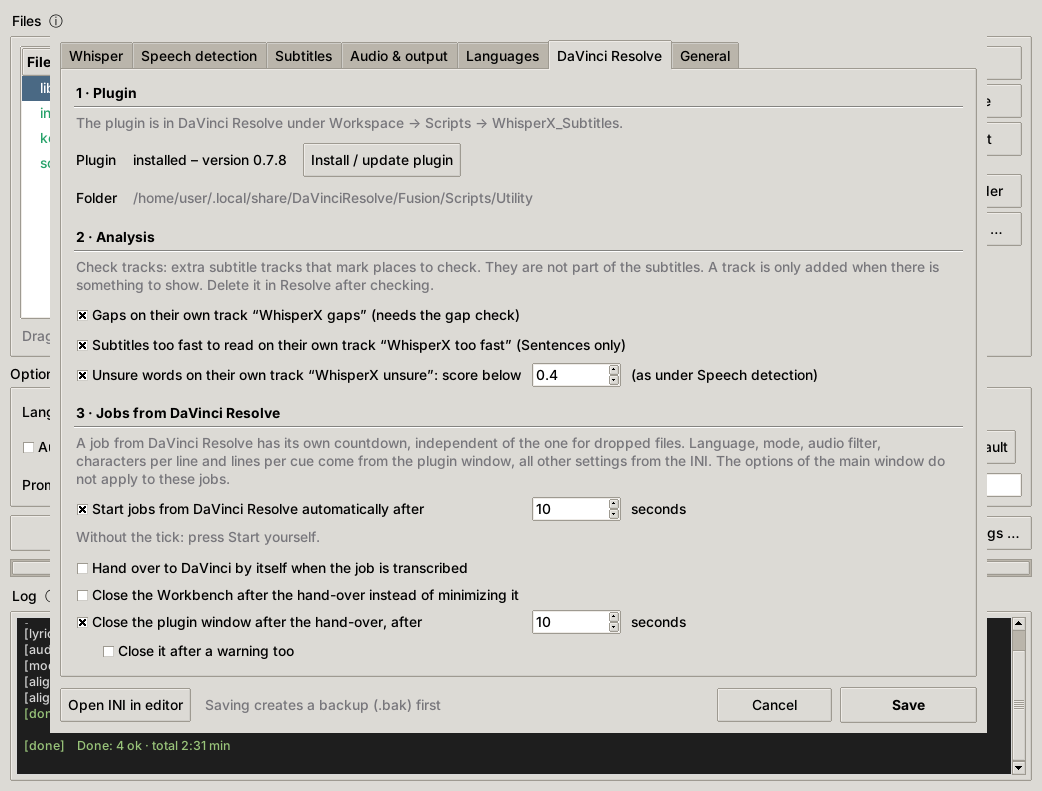
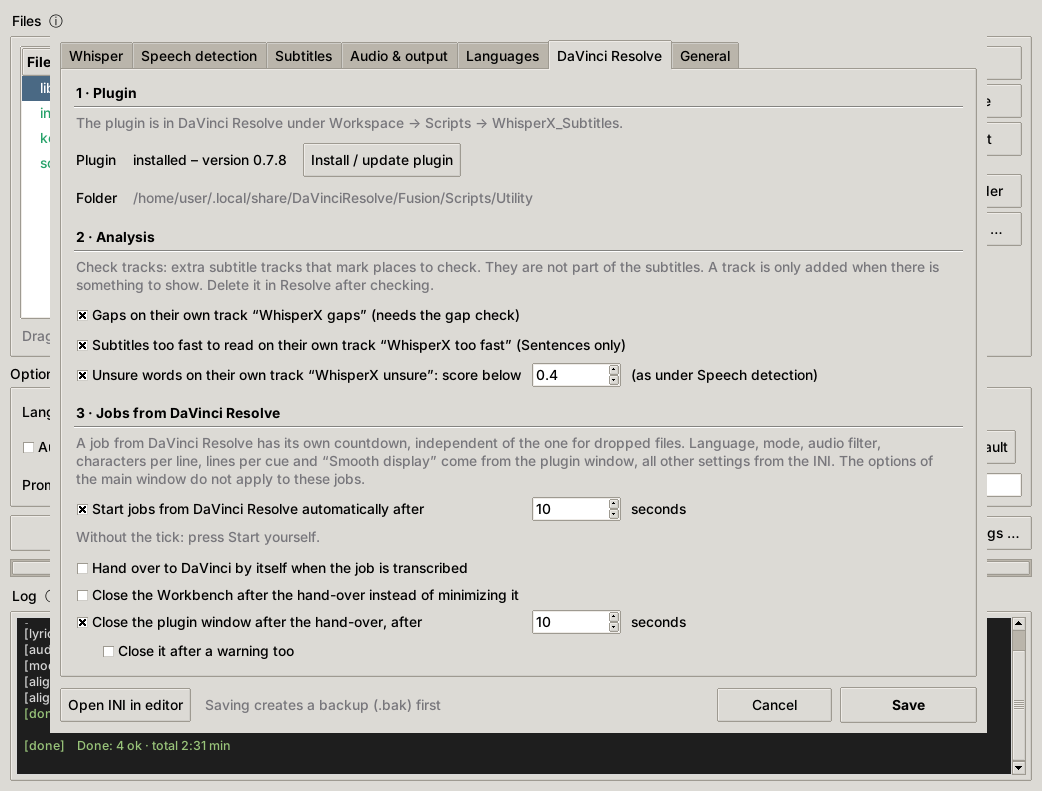
Smooth display chosen in the plugin window for a DaVinci job
The plugin window has a row "Smooth display" with Workbench default,
on and off, like language and mode. The plugin remembers the choice and
writes it into job.txt (smooth = "", 1, 0); the Workbench uses it for
the job instead of [Layout] smooth (JobOptions.smooth, display_cues)
and names it in the log line of the job, with "(INI)" for the INI
value. LAYOUT goes to "4", so the window starts once with the new size.
display_cues keeps pause_hold below pause like Config.__init__, because
the INI may have smooth = 0 with a longer hold.

settings-resolve.png taken again: the info of section 3 names the new
choice.

Comment limits raised: wt_core.py +2 (JobOptions.smooth, the rule of
Config.__init__ in display_cues), wt_resolve.py +1 (the new field like
the others), test_pauses.py +1 and test_resolve_plugin.py +1 (expected
values).

Claude-Session: https://claude.ai/code/session_01QDKquLZPA3UBpqMiHDnjSe

Changed region(s): [[0.0921, 0.5765, 0.9213, 0.6372]]

diff --git a/tests/test_resolve_plugin.py b/tests/test_resolve_plugin.py
@@ -662,6 +662,38 @@ def test_language_and_mode_chosen_in_the_plugin_go_into_the_job(tmp_path):
     assert (seen["job"].language, seen["job"].mode, seen["job"].use_filter) == ("tr", "word", False)
 
 
+def test_smooth_display_chosen_in_the_plugin_goes_into_the_job_and_stays(tmp_path):
+    h = Harness(tmp_path)
+    seen = {}
+
+    def steps(h):
+        seen["start"] = list(h.mock["items"].Smooth.entries.values())
+        h.click("Transcribe")
+        h.tick(2)
+        (job_dir,) = h.job_dirs()
+        seen["default"] = wr.find_job(job_dir / "audio.wav").smooth
+        h.click("Cancel")
+        h.mock.choose("Smooth", 2)                     # off
+        seen["saved"] = wr.read_kv(h.last / "plugin.txt")
+        h.click("Transcribe")
+        h.tick(2)
+        (job_dir,) = h.job_dirs()
+        seen["off"] = wr.find_job(job_dir / "audio.wav").smooth
+        h.click("Cancel")
+
+    h.run(steps, timelines=[timeline()])
+    assert seen["start"] == [h.T("opt_workbench"), h.T("opt_on"), h.T("opt_off")]
+    assert seen["default"] is None and seen["off"] is False and seen["saved"]["smooth"] == "0"
+
+    h2 = Harness(tmp_path)
+
+    def second(h):
+        seen["index"] = h.mock["items"].Smooth.CurrentIndex
+
+    h2.run(second, timelines=[timeline()])
+    assert seen["index"] == 2
+
+
 def test_audio_filter_chosen_in_the_plugin_goes_into_the_job_and_stays(tmp_path):
     h = Harness(tmp_path)
     seen = {}
@@ -774,14 +806,15 @@ def test_unusable_saved_geometry_is_ignored(tmp_path):
     g.WX_TEST = True
     m = h.lua.execute(h.code)
     for bad in ("", "1,2,3", "0,0,100,100", "-5000,0,700,500", "0,0,99999,500"):
-        assert m.saved_geometry(h.lua.table_from({"geometry": bad, "layout": "3"})) is None
-    assert list(m.saved_geometry(h.lua.table_from({"geometry": "10,20,600,360", "layout": "3"})).values()) == \
-        [10, 20, 600, 360]
+        assert m.saved_geometry(h.lua.table_from({"geometry": bad, "layout": "4"})) is None
+    assert list(m.saved_geometry(h.lua.table_from({"geometry": "10,20,600,392", "layout": "4"})).values()) == \
+        [10, 20, 600, 392]
     # Resolve 21.2 reported 505 wide although the minimum is 520 - restore it anyway
-    assert list(m.saved_geometry(h.lua.table_from({"geometry": "260,180,505,360", "layout": "3"})).values()) == \
-        [260, 180, 505, 360]
-    # saved before the row with characters and lines: too low for it
-    assert m.saved_geometry(h.lua.table_from({"geometry": "10,20,600,330", "layout": "2"})) is None
+    assert list(m.saved_geometry(h.lua.table_from({"geometry": "260,180,505,392", "layout": "4"})).values()) == \
+        [260, 180, 505, 392]
+    # saved before the rows with characters and lines (2) and with "Smooth display" (3): too low
+    for layout in ("2", "3"):
+        assert m.saved_geometry(h.lua.table_from({"geometry": "10,20,600,360", "layout": layout})) is None
     # saved by an older plugin (no layout key): its start size was too big - start with the new one
     assert m.saved_geometry(h.lua.table_from({"geometry": "10,20,640,460"})) is None
 

diff --git a/wt_resolve.py b/wt_resolve.py
@@ -136,6 +136,7 @@ class ResolveJob:
     use_filter:  bool | None = None   # audio filter chosen in the plugin (None = from the INI)
     chars:       int = 0         # characters per line chosen in the plugin (0 = from the INI)
     lines:       int = 0         # lines per subtitle chosen in the plugin (0 = from the INI)
+    smooth:      bool | None = None   # "Smooth display" chosen in the plugin (None = from the INI)
 
     @classmethod
     def from_values(cls, folder, v: dict) -> "ResolveJob":
@@ -154,6 +155,7 @@ class ResolveJob:
                 return 0
         start = frame("start_frame")
         flt = v.get("filter", "").strip().lower()
+        smooth = v.get("smooth", "").strip().lower()
         return cls(folder=Path(folder), audio=v["audio"], job_id=v.get("job", ""),
                    timeline=v.get("timeline", ""), timeline_id=v.get("timeline_id", ""),
                    project=v.get("project", ""), fps=parse_fps(v.get("fps", "")), fps_text=v.get("fps", ""),
@@ -163,7 +165,8 @@ class ResolveJob:
                    whole=v.get("range", "all") != "inout", language=v.get("language", "").lower(),
                    mode=v.get("mode", "").lower(),
                    use_filter=None if flt == "" else flt in ("1", "true", "on", "yes"),
-                   chars=whole("chars"), lines=whole("lines"))
+                   chars=whole("chars"), lines=whole("lines"),
+                   smooth=None if smooth == "" else smooth in ("1", "true", "on", "yes"))
 
     def values(self) -> dict:
         """The keys of job.txt, in the order the plugin writes them."""
@@ -173,7 +176,8 @@ class ResolveJob:
                 "start_tc": self.start_tc, "range": "all" if self.whole else "inout", "in_frame": self.in_frame,
                 "out_frame": self.out_frame, "end_frame": self.end_frame, "language": self.language,
                 "mode": self.mode, "filter": "" if self.use_filter is None else "1" if self.use_filter else "0",
-                "chars": self.chars or "", "lines": self.lines or ""}
+                "chars": self.chars or "", "lines": self.lines or "",
+                "smooth": "" if self.smooth is None else "1" if self.smooth else "0"}
 
     @property
     def audio_path(self) -> Path:

diff --git a/whisper_tool.py b/whisper_tool.py
@@ -1124,8 +1124,8 @@ class App(BaseTk):
 
     def _resolve_options(self, job, cfg: core.Config | None = None) -> core.JobOptions:
         """
-        Options of a DaVinci Resolve job: language, mode, audio filter, characters and lines as chosen in the
-        plugin, all other settings from the INI. The options of the main window do not apply to these jobs.
+        Options of a DaVinci Resolve job: language, mode, audio filter, characters, lines and smooth display as
+        chosen in the plugin, all other settings from the INI. The options of the main window do not apply.
         """
         o = core.JobOptions.from_config(cfg or self.cfg)
         def within(n, limits, default):
@@ -1135,7 +1135,8 @@ class App(BaseTk):
                        mode=job.mode if job.mode in core.MODES else o.mode,
                        use_filter=o.use_filter if job.use_filter is None else job.use_filter,
                        max_chars=within(job.chars, core.CHARS_RANGE, o.max_chars),
-                       max_lines=within(job.lines, core.LINES_RANGE, o.max_lines))
+                       max_lines=within(job.lines, core.LINES_RANGE, o.max_lines),
+                       smooth=job.smooth)
 
     def _log_resolve_options(self, job):
         o = self._resolve_options(job)
@@ -1147,7 +1148,9 @@ class App(BaseTk):
             filter=T("resolve.filter_on" if o.use_filter else "resolve.filter_off")
             + ("" if job.use_filter is not None else ini),
             layout=T("resolve.layout", chars=o.max_chars, lines=o.max_lines)
-            + ("" if (job.chars, job.lines) == (o.max_chars, o.max_lines) else ini)) + "\n")
+            + ("" if (job.chars, job.lines) == (o.max_chars, o.max_lines) else ini),
+            smooth=T("resolve.smooth_on" if (self.cfg.smooth if o.smooth is None else o.smooth) else "resolve.smooth_off")
+            + ("" if job.smooth is not None else ini)) + "\n")
         prompt = {"ini": "resolve.prompt_ini", "custom": "resolve.prompt_custom"}.get(o.prompt_mode,
                                                                                      "resolve.prompt_none")
         self._append_log(i18n.line("info", "resolve.log_job_ini", prompt=T(prompt)) + "\n")

diff --git a/wt_core.py b/wt_core.py
@@ -655,11 +655,12 @@ def smooth_cues(cues: list, pause: float, hold: float, duration: float | None = 
     return out
 
 
-def display_cues(cues: list, mode: str, cfg, duration: float | None = None) -> list:
+def display_cues(cues: list, mode: str, cfg, duration: float | None = None, smooth: bool | None = None) -> list:
     """Display rule for speech (sentences, word by word, raw) if "smooth" is on – lyrics keep their own."""
-    if mode == "lyrics" or not cfg.smooth:
+    if mode == "lyrics" or not (cfg.smooth if smooth is None else smooth):
         return cues
-    return smooth_cues(cues, cfg.pause, cfg.pause_hold, duration)
+    hold = cfg.pause_hold if cfg.pause_hold < cfg.pause else round(cfg.pause / 2, 2)   # rule of Config.__init__
+    return smooth_cues(cues, cfg.pause, hold, duration)
 
 
 def fast_cues(cues: list, max_cps: float = READING_CPS) -> list[tuple[float, float, float]]:
@@ -909,6 +910,7 @@ class JobOptions:
     keep_json:     bool  = False
     line_hold:     float = 0.0
     live_lines:    bool  = True        # print recognized lines during transcription
+    smooth:        bool | None = None  # None = [Layout] smooth
 
     @classmethod
     def from_config(cls, cfg: Config) -> "JobOptions":
@@ -1275,7 +1277,7 @@ class Engine:
             info["score_list"] = self._report_score(result, src)            # also for DaVinci Resolve
             info["unsure"] = len(info["score_list"])
 
-        cues = display_cues(cues, mode, cfg, duration)      # pause rule – lyrics keep their own
+        cues = display_cues(cues, mode, cfg, duration, opts.smooth)    # pause rule – lyrics keep their own
         if mode == "sentence":
             info["fast"] = self._report_fast(cues)
         write_srt(out, cues, cfg.encoding)

diff --git a/tests/test_pauses.py b/tests/test_pauses.py
@@ -198,3 +198,14 @@ def test_pipeline_raw_screen_is_empty_during_the_pause(tmp_path):
     assert len(times) == 2                                                          # split at the 4 s pause
     assert times[0][1] == pytest.approx(words[4]["end"] + 1.0)                      # "das." + 1 s hold
     assert times[1][0] == pytest.approx(words[5]["start"])                          # "Danach" exactly on time
+
+
+def test_smooth_display_chosen_for_the_job_wins_over_the_ini(tmp_path):
+    ini = tmp_path / "whisper_tool.ini"
+    ini.write_text("[Layout]\nsmooth = 0\npause = 2\npause_hold = 5\n", encoding="utf-8")
+    cfg = core.Config(ini)
+    cues = [(0.0, 1.0, ["a"]), (1.5, 2.0, ["b"]), (8.0, 9.0, ["c"])]
+    assert core.display_cues(cues, "sentence", cfg) == cues
+    on = core.display_cues(cues, "sentence", cfg, smooth=True)
+    assert on[0][1] == 1.5 and on[1][1] == 3.0          # held up to the next one; real pause: hold of pause / 2
+    assert core.display_cues(cues, "lyrics", cfg, smooth=True) == cues

diff --git a/tests/test_resolve.py b/tests/test_resolve.py
@@ -502,6 +502,15 @@ def test_resolve_job_options_come_from_the_plugin_and_the_ini(tmp_path):
     assert (default.language, default.mode, default.use_filter) == ("de", "sentence", False)
 
 
+def test_smooth_display_comes_from_the_plugin(tmp_path):
+    wt = pytest.importorskip("whisper_tool")
+    app = type("App", (), {"cfg": core.Config(ROOT / "whisper_tool.example.ini")})()
+    for chosen in (True, False, None):
+        job = make_job(tmp_path / str(chosen), smooth=chosen)
+        assert wr.find_job(tmp_path / str(chosen) / "audio.wav").smooth is chosen
+        assert wt.App._resolve_options(app, job).smooth is chosen
+
+
 def test_characters_and_lines_come_from_the_plugin(tmp_path):
     wt = pytest.importorskip("whisper_tool")
     ini = tmp_path / "whisper_tool.ini"

diff --git a/README.de.md b/README.de.md
@@ -333,9 +333,9 @@ Nach einem Update der Workbench, nach dem Verschieben ihres Ordners und nach ein
 
 ### Ablauf
 
-1. Die Timeline in Resolve öffnen. In und Out setzen, wenn nur ein Teil transkribiert werden soll, sonst gilt die ganze Timeline. Das Plugin starten, bei Bedarf **Sprache** und **Modus** für diesen Job wählen („Vorgabe der Workbench“ nimmt die Vorgabe aus der INI), den **Audiofilter** ein- oder ausschalten, für den Modus *Satzweise* **Zeichen/Zeile** und **Zeilen/Block** einstellen (bei den anderen Modi ausgegraut) und **Transkribieren** drücken. Das Plugin-Fenster merkt sich Position, Größe und diese Auswahlen. Die beiden Zahlen starten mit den Werten aus der INI.
+1. Die Timeline in Resolve öffnen. In und Out setzen, wenn nur ein Teil transkribiert werden soll, sonst gilt die ganze Timeline. Das Plugin starten, bei Bedarf **Sprache** und **Modus** für diesen Job wählen („Vorgabe der Workbench“ nimmt die Vorgabe aus der INI), den **Audiofilter** ein- oder ausschalten, für den Modus *Satzweise* **Zeichen/Zeile** und **Zeilen/Block** einstellen (bei den anderen Modi ausgegraut), **Flüssig anzeigen** wählen (Vorgabe der Workbench, an oder aus) und **Transkribieren** drücken. Das Plugin-Fenster merkt sich Position, Größe und diese Auswahlen. Die beiden Zahlen starten mit den Werten aus der INI.
 2. Das Plugin rendert die Hauptmischung der Timeline als WAV nach `resolve_temp\<Job>\` der Workbench. Danach ist der Render-Job gelöscht, und Seite, Deliver-Einstellungen sowie In/Out-Marken sind wie vorher – auch nach einem Fehler oder *Abbrechen*. Dann startet es die Workbench mit der WAV; eine schon geöffnete Workbench übernimmt die Datei, ihre Modelle bleiben geladen.
-3. In der Workbench steht der Job als „*Timeline* · DaVinci Resolve“ in der Liste. Er hat einen eigenen Countdown (*Einstellungen → DaVinci Resolve*, Vorgabe 10 Sekunden). Sprache, Modus, Audiofilter, Zeichen pro Zeile und Zeilen kommen aus dem Plugin-Fenster, alle übrigen Einstellungen aus der INI: der Prompt und alle Regeln aus *Einstellungen → Untertitel*. Die Einstellungen im Hauptfenster gelten für DaVinci-Jobs nicht. Das Protokoll zeigt beides an. Ohne Countdown startest du selbst mit *Start*. Währenddessen zeigt das Plugin-Fenster, wo der Job steht: Countdown, Transkription in Prozent, fertig.
+3. In der Workbench steht der Job als „*Timeline* · DaVinci Resolve“ in der Liste. Er hat einen eigenen Countdown (*Einstellungen → DaVinci Resolve*, Vorgabe 10 Sekunden). Sprache, Modus, Audiofilter, Zeichen pro Zeile, Zeilen und „Flüssig anzeigen“ kommen aus dem Plugin-Fenster, alle übrigen Einstellungen aus der INI: der Prompt und alle Regeln aus *Einstellungen → Untertitel*. Die Einstellungen im Hauptfenster gelten für DaVinci-Jobs nicht. Das Protokoll zeigt beides an. Ohne Countdown startest du selbst mit *Start*. Währenddessen zeigt das Plugin-Fenster, wo der Job steht: Countdown, Transkription in Prozent, fertig.
 4. Ist der Job fertig, die Untertitel prüfen und **→ An DaVinci übergeben** drücken (blau, sobald der Job fertig ist). Die SRT wird an die Stelle des Bereichs in der Timeline verschoben und als `resolve_temp\<Timeline>_<SPRACHE>_<Datum-Uhrzeit>.srt` gespeichert; dieser Ordner behält die SRTs der letzten 10 Übergaben, bei der 11. wird die älteste gelöscht. Der Name ist jedes Mal neu, weil Resolve eine Datei, die schon im Media Pool liegt, nicht noch einmal liest – es würde die Untertitel des ersten Imports einsetzen. Danach minimiert sich die Workbench – sie bleibt offen, ihre Modelle bleiben für den nächsten Job geladen. Unter *Einstellungen → DaVinci Resolve* kannst du automatisch übergeben lassen, sobald der Job transkribiert ist, und schließen statt minimieren.
 5. Das Plugin wartet in Resolve, wechselt zurück zur Timeline des Jobs, importiert die SRT in den Media-Pool-Bin *WhisperX* und legt sie auf die **erste leere Untertitelspur** (ST1, ST2, …) – oder auf eine neue. Die Spur heißt `WhisperX DE` (`WhisperX DE 2`, wenn es den Namen schon gibt) und bleibt die aktive Untertitelspur. Danach werden WAV und Job-Ordner gelöscht, und das Plugin-Fenster kommt mit dem Ergebnis nach vorne. Nach einer Übernahme ohne Warnung schließt es nach 10 Sekunden, sonst bleibt es, bis du *OK* drückst. Beides stellst du unter *Einstellungen → DaVinci Resolve → 3 · Jobs aus DaVinci Resolve* ein.
 6. Bis zu drei weitere Untertitelspuren helfen beim Prüfen, jede einzeln unter *Einstellungen → DaVinci Resolve → Analyse* ein- oder ausgeschaltet: **WhisperX Lücken** markiert laute Stellen ohne Text aus dem Lücken-Check, **WhisperX zu schnell** markiert Untertitel mit mehr als 17 Zeichen pro Sekunde (Modus *Satzweise*), **WhisperX unsicher** markiert die Wörter des Score-Checks (immer, wenn der Score-Check an ist; die Zeile unter *Analyse* ist dieselbe Einstellung wie unter *Spracherkennung*). Du springst in Resolve von Eintrag zu Eintrag und löschst danach die Spuren. Eine Spur kommt nur dazu, wenn es etwas zu zeigen gibt, und die Spur mit dem Transkript bleibt die aktive.

diff --git a/README.md b/README.md
@@ -331,9 +331,9 @@ Install the plugin again after an update of the workbench, after moving its fold
 
 ### Workflow
 
-1. Open the timeline in Resolve. Set In and Out if only a part should be transcribed, otherwise the whole timeline is used. Start the plugin, choose **Language** and **Mode** if this job needs other ones than the workbench window (“Workbench default” takes the default from the INI), switch the **Audio filter** on or off, set **Chars/line** and **Lines/cue** for mode *Sentences* (greyed out for the other modes), and press **Transcribe**. The plugin window remembers its position, its size and these choices. The two numbers start with the values of the INI.
+1. Open the timeline in Resolve. Set In and Out if only a part should be transcribed, otherwise the whole timeline is used. Start the plugin, choose **Language** and **Mode** if this job needs other ones than the workbench window (“Workbench default” takes the default from the INI), switch the **Audio filter** on or off, set **Chars/line** and **Lines/cue** for mode *Sentences* (greyed out for the other modes), choose **Smooth display** (Workbench default, on or off) and press **Transcribe**. The plugin window remembers its position, its size and these choices. The two numbers start with the values of the INI.
 2. The plugin renders the main mix of the timeline as WAV into `resolve_temp\<job>\` of the workbench. Afterwards the render job is deleted, and the page, the Deliver settings and the In/Out marks are as before – also after an error or *Cancel*. Then it starts the workbench with the WAV; a workbench that is already open takes the file over and keeps its models loaded.
-3. In the workbench the job appears as “*Timeline* · DaVinci Resolve”. It has its own countdown (*Settings → DaVinci Resolve*, 10 seconds by default). Language, mode, audio filter, characters per line and lines come from the plugin window; all other settings come from the INI: the prompt and all rules from *Settings → Subtitles*. The options of the main window do not apply to DaVinci jobs. The log shows both. Without the countdown, press *Start* yourself. Meanwhile the plugin window shows where the job stands: countdown, transcription in percent, done.
+3. In the workbench the job appears as “*Timeline* · DaVinci Resolve”. It has its own countdown (*Settings → DaVinci Resolve*, 10 seconds by default). Language, mode, audio filter, characters per line, lines and smooth display come from the plugin window; all other settings come from the INI: the prompt and all rules from *Settings → Subtitles*. The options of the main window do not apply to DaVinci jobs. The log shows both. Without the countdown, press *Start* yourself. Meanwhile the plugin window shows where the job stands: countdown, transcription in percent, done.
 4. When the job is done, check the subtitles and press **→ Hand over to DaVinci** (blue once the job is done). The SRT is moved to the position of the range in the timeline and saved as `resolve_temp\<Timeline>_<LANG>_<date-time>.srt`; this folder keeps the SRTs of the last 10 hand-overs, and the 11th deletes the oldest. The name is new every time, because Resolve does not read a file again that is already in its media pool – it would place the subtitles of the first import. The workbench then minimizes itself – it stays open, so its models stay loaded for the next job. In *Settings → DaVinci Resolve* you can let it hand over by itself as soon as the job is transcribed, and close instead of minimize.
 5. The plugin, still waiting in Resolve, switches back to the timeline of the job, imports the SRT into the media pool bin *WhisperX* and puts it onto the **first empty subtitle track** (ST1, ST2, …) – or onto a new one. The track is named `WhisperX DE` (`WhisperX DE 2` if the name exists) and stays the active subtitle track. Then the WAV and the job folder are deleted, and the plugin window comes to the front with the result. After an import without a warning it closes after 10 seconds; otherwise it stays until you press *OK*. You set both under *Settings → DaVinci Resolve → 3 · Jobs from DaVinci Resolve*.
 6. Up to three more subtitle tracks help with checking, each switched on or off in *Settings → DaVinci Resolve → Analysis*: **WhisperX gaps** marks loud passages without text from the gap check, **WhisperX too fast** marks subtitles with more than 17 characters per second (mode *Sentences*), **WhisperX unsure** marks the words of the score check (whenever the score check is on; the row under *Analysis* is the same setting as under *Speech detection*). Jump through them in Resolve, then delete the tracks. A track is only added when there is something to show, and the transcript track stays the active one.

diff --git a/CHANGELOG.md b/CHANGELOG.md
@@ -4,9 +4,10 @@ All notable changes to WhisperX Subtitle Workbench. Versioning follows [Semantic
 
 ## [0.7.8] – 2026-11-08
 
-**Updating from 0.7.7:** install the plugin again – the Workbench asks at the first start, or use *Settings → DaVinci Resolve*. Your `whisper_tool.ini` needs no change: without the new keys the plugin window closes after 10 seconds. The Python packages need no change either; to get the newly tested versions: `venv\Scripts\python.exe -m pip install --no-deps ctranslate2==4.8.5 certifi==2026.10.23 urllib3==2.8.0 requests==2.34.2 idna==3.20 charset-normalizer==3.5.2`.
+**Updating from 0.7.7:** install the plugin again – the Workbench asks at the first start, or use *Settings → DaVinci Resolve*. The plugin window starts once with its new size. Your `whisper_tool.ini` needs no change: without the new keys the plugin window closes after 10 seconds. The Python packages need no change either; to get the newly tested versions: `venv\Scripts\python.exe -m pip install --no-deps ctranslate2==4.8.5 certifi==2026.10.23 urllib3==2.8.0 requests==2.34.2 idna==3.20 charset-normalizer==3.5.2`.
 
 - **Plugin window closes after the import.** After an import without errors the plugin window in DaVinci Resolve closes after 10 seconds; the status line counts down. *OK* closes it at once, *Transcribe* or *Import SRT …* stops the countdown. After a warning about the number or position of the subtitles it stays open. *Settings → DaVinci Resolve → 3 · Jobs from DaVinci Resolve* has two new rows: **Close the plugin window after the hand-over, after … seconds** (`[Resolve] close_plugin`, 0 = stays open) and **Close it after a warning too** (`close_plugin_warning`). The Workbench sends both with the hand-over (`done.txt`)
+- **Smooth display in the plugin window**, in a new row: *Workbench default*, *on* or *off*. It goes to the Workbench with the job and wins over `[Layout] smooth` of the INI, like language and mode; with *Workbench default* the INI counts. The plugin remembers the choice. The log of a DaVinci job shows it with the other choices of the plugin; “(INI)” marks the value from the INI
 - The system check no longer lists an own model that is switched off; it lists the own models that are on
 - The settings dialog takes the height that its tallest tab needs. Before, the buttons *Open INI in editor*, *Cancel* and *Save* could be cut off at the bottom. In a window made smaller by hand the tabs get shorter, not the buttons
 - New screenshots of *Settings → Subtitles*, *DaVinci Resolve* and *General* in the README
